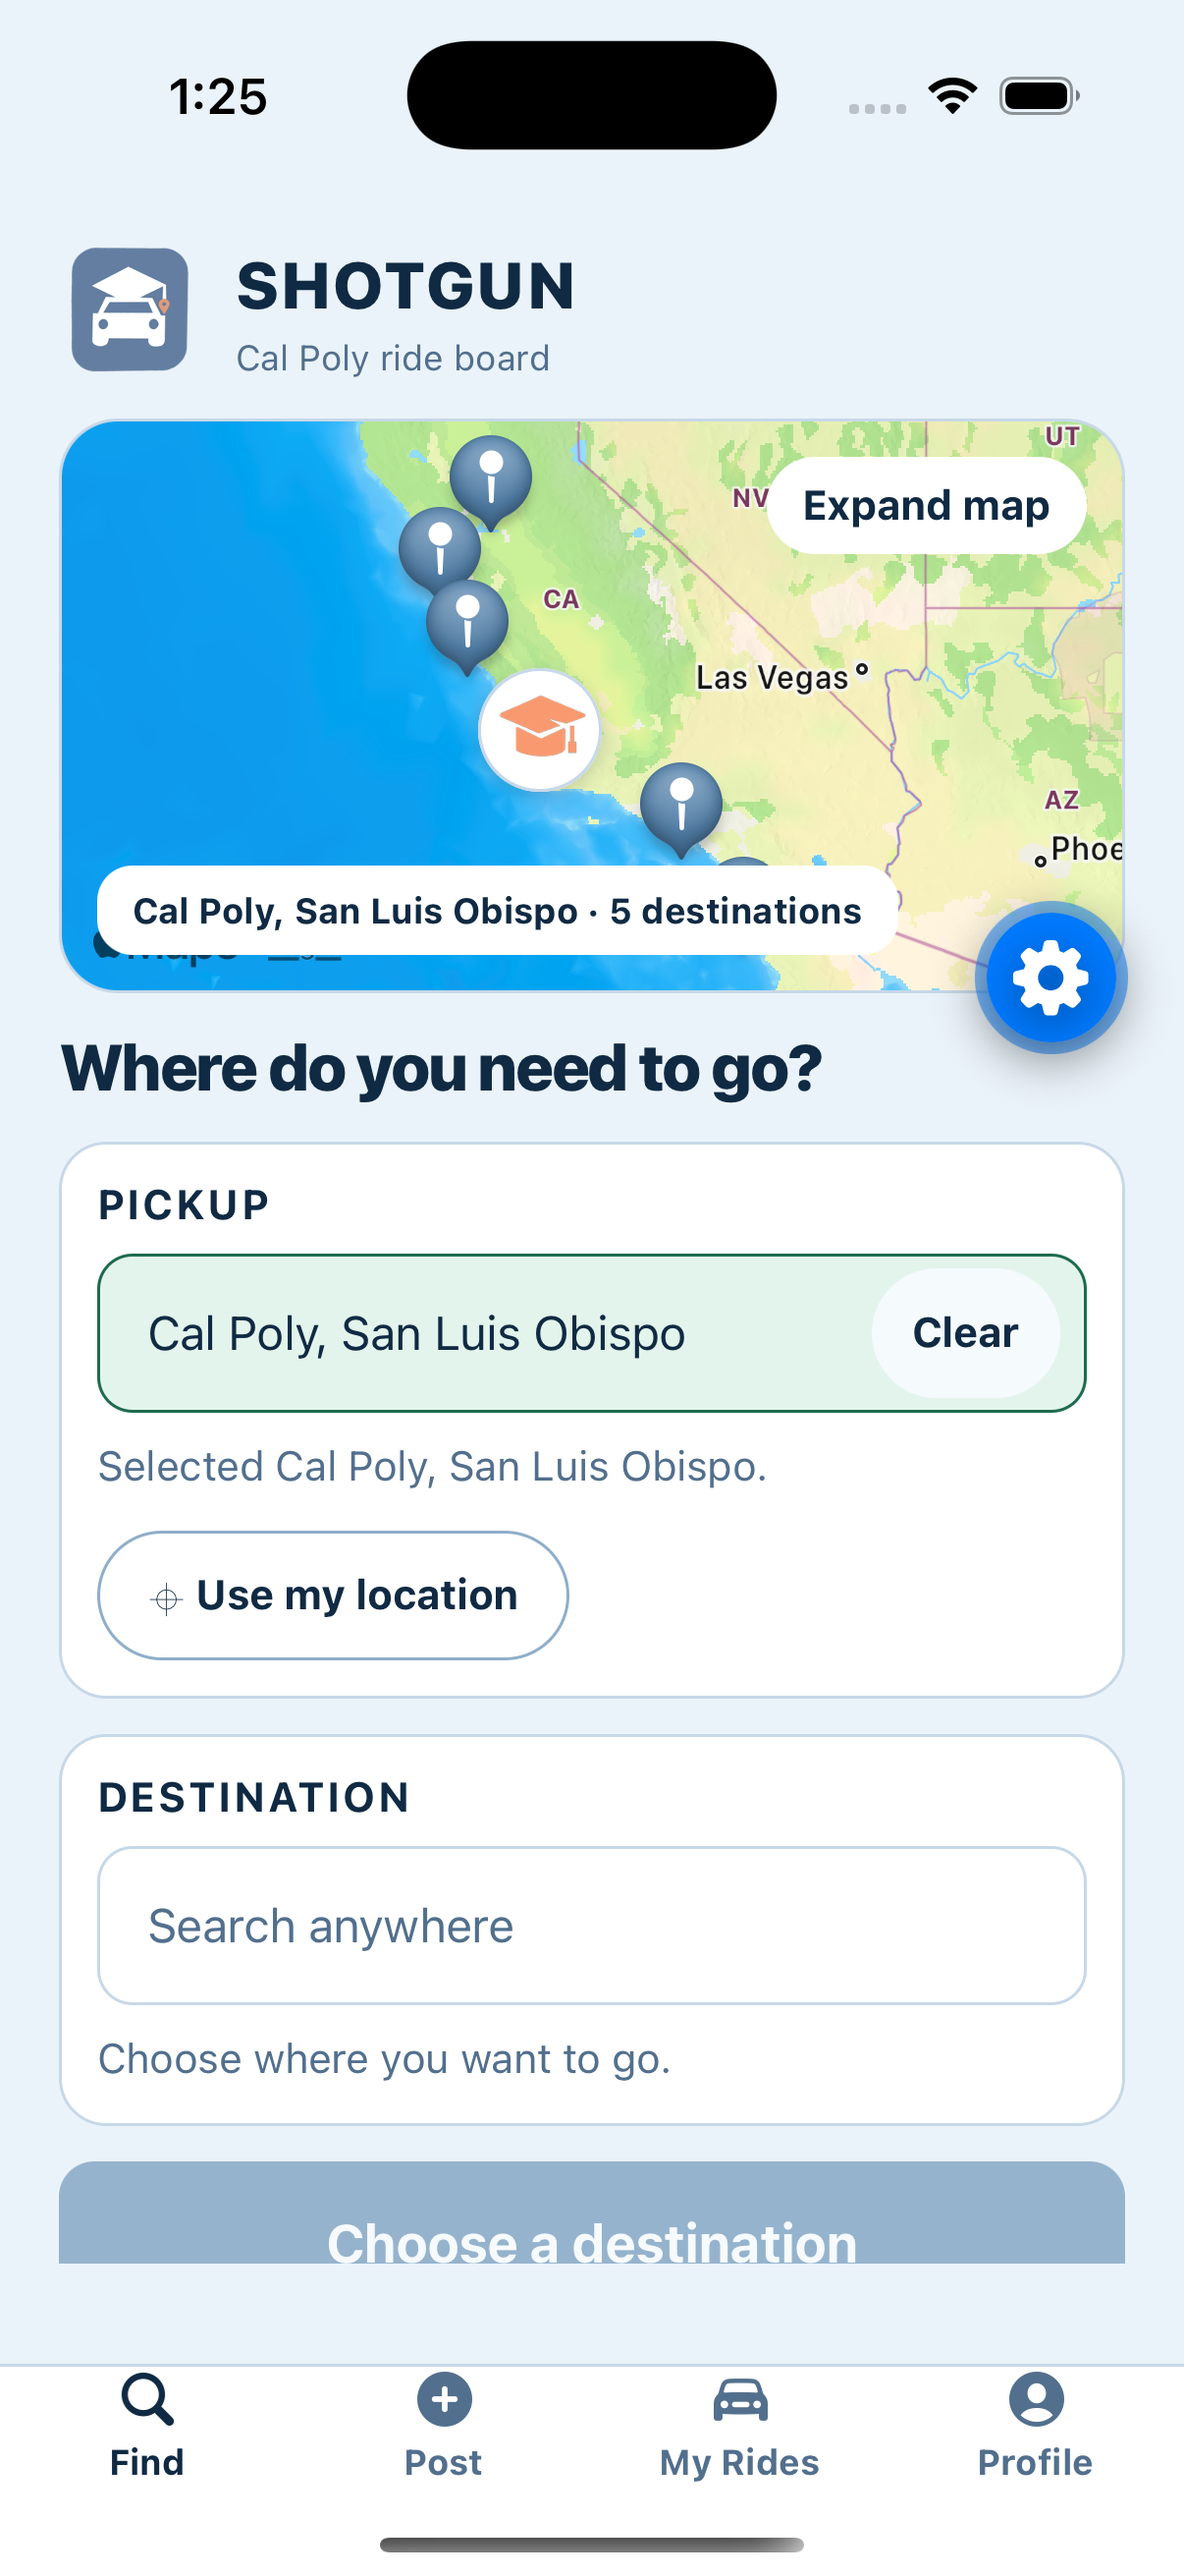
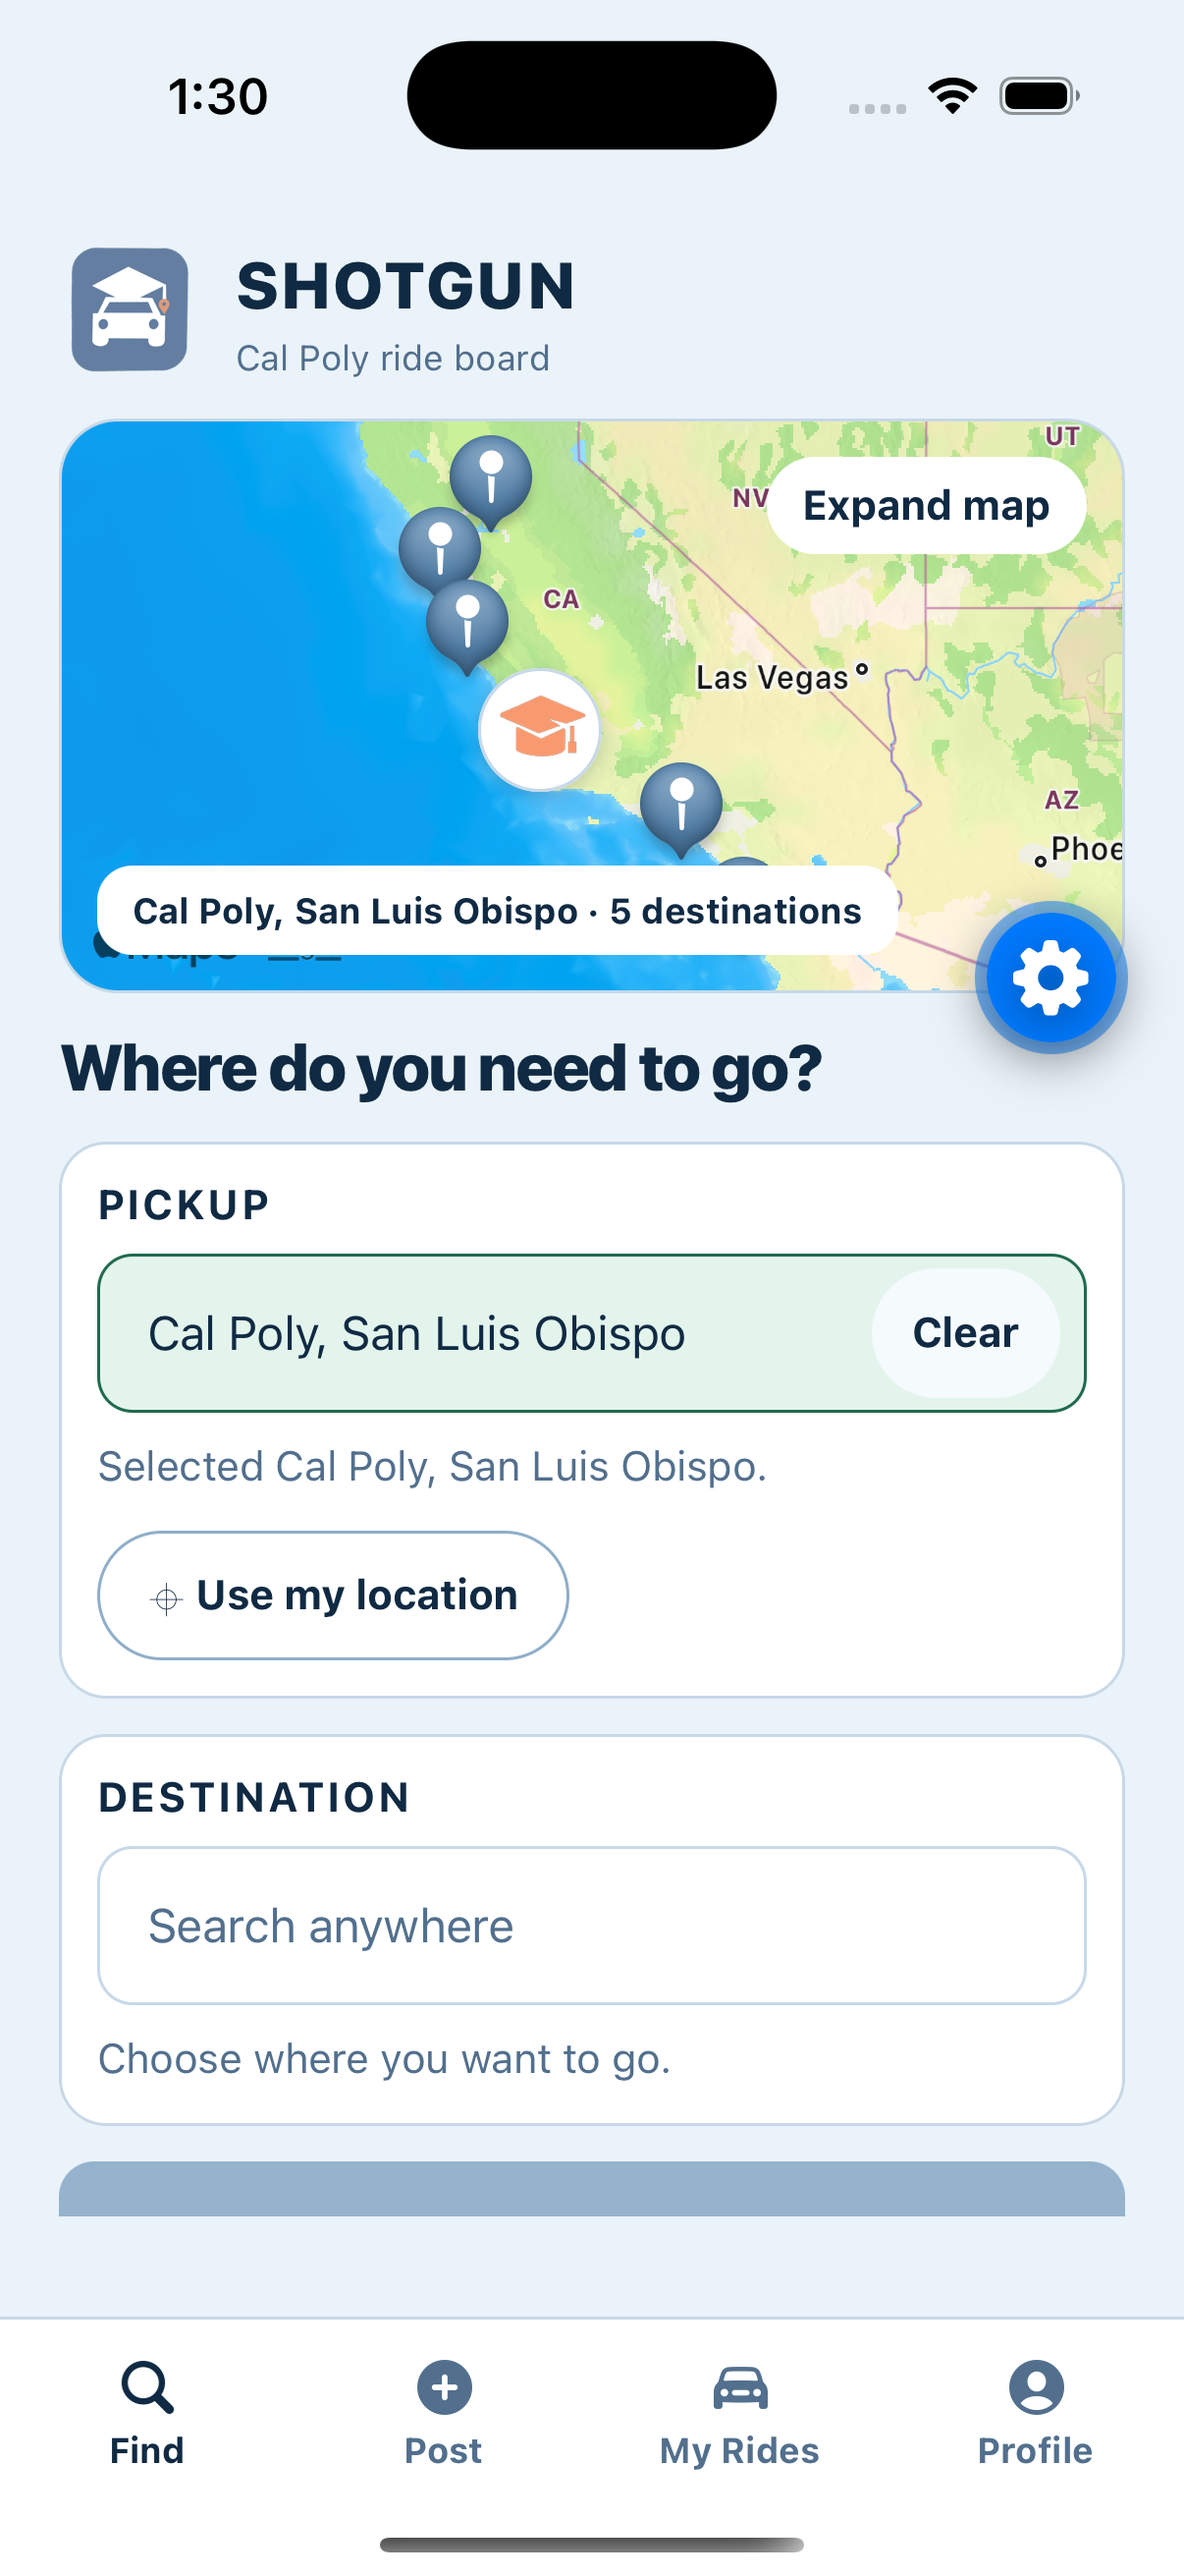
Refine bottom navigation spacing

Changed region(s): [[0.0307, 0.8341, 0.9511, 0.9577], [0.1841, 0.0309, 0.2148, 0.0618]]

diff --git a/app/(app)/(tabs)/_layout.tsx b/app/(app)/(tabs)/_layout.tsx
@@ -31,7 +31,7 @@ export default function TabsLayout() {
         tabBarInactiveTintColor: colors.textMuted,
         tabBarHideOnKeyboard: true,
         tabBarItemStyle: {
-          transform: [{ translateY: -spacing[2] }],
+          transform: [{ translateY: spacing[1] }],
         },
         tabBarLabelStyle: {
           fontSize: typography.fontSize.xs,
@@ -42,7 +42,7 @@ export default function TabsLayout() {
           backgroundColor: semanticColors.app.surface,
           borderTopColor: semanticColors.app.border,
           borderTopWidth: 1,
-          height: 72,
+          height: 88,
           paddingTop: spacing[0],
         },
       }}
